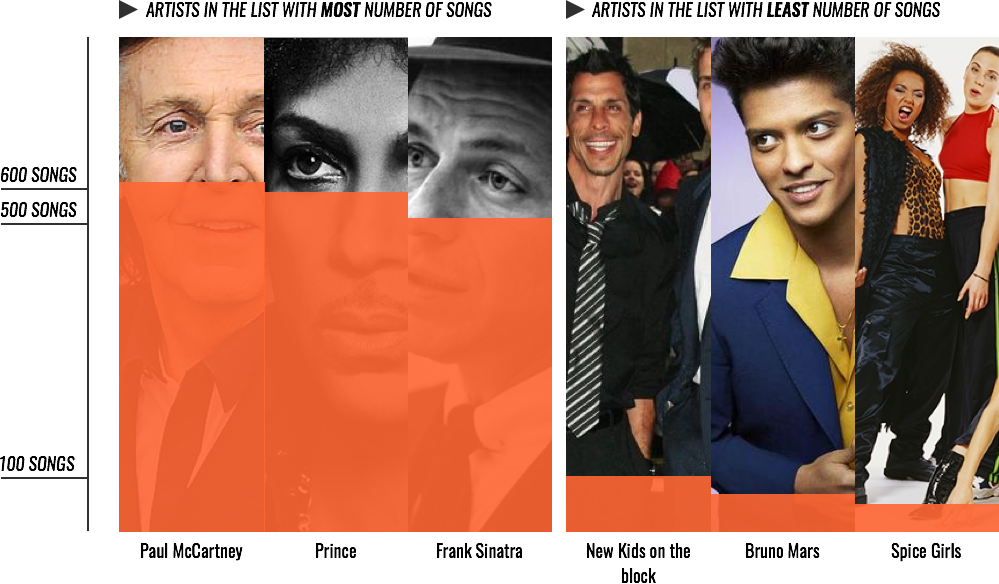
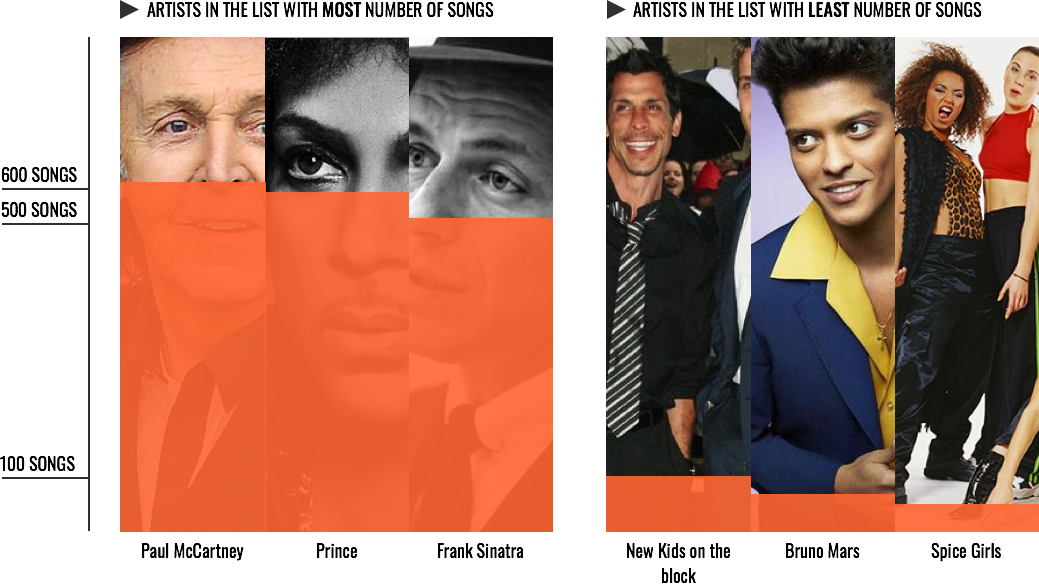
Added more content to the article

diff --git a/index.html b/index.html
@@ -47,7 +47,17 @@
 
 	<section class="article">
 		The aim is to compare the vocabulary and the lyrical density of these musicians. Some of them have released a lot more songs than others because of the sheer longevity of their career and how prolific they are.
+		<div id="topBottomArtists"></div>
 	</section>
+	<section class="article">
+		To prevent the vocabulary size from being skewed purely by the number of songs released, the vocabularies are compared across the 100 densest songs (by total words) that they have released till date. Only 6 of these musicians have released less than 100 songs so it is a good threshold. Also, 100 songs comprises 8 to 10 albums of music which would span at least 5 to 10 years of work which should truthfully mimic the overall vocabulary and lyrical style of the musician.  
+
+	Some definitions:
+	Vocabulary: The number of unique words (across any language) used by a musician in their 100 (or less) densest songs. [this should be highlighted in some way]
+	Lyrical density: The total number of words (across any language) used by a musician in their 100 (or less) densest songs. [highlight]
+	Learning rate: On average, the number of words after which a new word is used by the musician. This is the ratio of Lyrical density/Vocabulary. If it is low it means new words are learnt faster.
+	</section>
+
 
 
 	<!-- Begin Vocabulary Plot from here  -->
@@ -63,6 +73,17 @@
 		</div>
 	</section>
 	<!-- End Vocabulary Plot here -->
+
+	<section class="article">
+		<h1>Mr. OBVIOUS</h1>
+		<img src="img/mrobvious.png" height="364" width="712" alt="Musicians" class = "expImages">
+		There are 4 rappers in the list and they obviously are at the top of the vocabulary chart. Amongst them Eminem leads Jay-z, 2Pac, Kanye West and Black Eyed Peas by a big margin. One reason would be that he tends to use more words in his songs than the others. Eminem also has the overall highest words per song ratio of 1018.5
+	</section>
+	<section class="article">
+		<h1>THE FREEWHEELIN'</h1>
+		<img src="img/freewheeling.png" height="160" width="226" alt="Freewheelin'" class = "expImages">
+		Given how articulate and descriptive his songs are, it is no wonder Bob Dylan ranks so highly. He also ranks at the top (#11) of learning rate (a brand new word is used by him after every 9th word).
+	</section>
 </div> <!-- End of container div -->
 
 <script id = "tooltipTemplate" type = "mxm/template">

diff --git a/css/styles.css b/css/styles.css
@@ -155,9 +155,9 @@ input#locateArtist {
   display: inline-block;
   width: 80px;
   height: 80px;
-  border: 2px solid #000;
   background-color: #D8D8D8;
-  cursor: pointer; }
+  cursor: pointer;
+  border-radius: 2px; }
 
 .expanded {
   height: auto !important; }
@@ -242,17 +242,29 @@ body {
   margin: 0 auto;
   padding: 30px 20px 30px 20px;
   font-family: "Helvetica Neue", "Lato";
-  line-height: 1.5em;
+  line-height: 1.6em;
   font-size: 1.1em; }
   .article a {
     color: #FD4C38;
     text-decoration: none; }
+  .article h1 {
+    font-family: Oswald-DemiBold, "Oswald";
+    font-weight: bolder;
+    font-size: 36px;
+    color: #000000;
+    line-height: 49px;
+    width: 100%;
+    text-align: center; }
 
 #topBottomArtists {
-  width: 960px;
+  width: 1100px;
   height: 600px;
-  margin: 30px 0px 10px -120px;
+  margin: 30px 0px -40px -120px;
   background-image: url(.././img/topBottomArtists.png);
   background-repeat: no-repeat; }
+
+.expImages {
+  display: block;
+  margin: 30px auto; }
 
 /*# sourceMappingURL=styles.css.map */

diff --git a/sass/styles.sass b/sass/styles.sass
@@ -65,18 +65,30 @@ body
 	margin : 0 auto
 	padding: 30px 20px 30px 20px
 	font-family : 'Helvetica Neue','Lato'
-	line-height : 1.5em
+	line-height : 1.6em
 	font-size : 1.1em
 	& a
 		color : $color_main
 		text-decoration : none
+	h1
+		font-family: Oswald-DemiBold,'Oswald'
+		font-weight: bolder
+		font-size: 36px
+		color: #000000
+		line-height: 49px
+		width : 100%
+		text-align : center
 
 #topBottomArtists
-	width : 960px
+	width : 1100px
 	height : 600px
-	margin : 30px 0px 10px -120px
+	margin : 30px 0px -40px -120px
 	background-image : url(.././img/topBottomArtists.png)
 	background-repeat : no-repeat
+
+.expImages
+	display : block
+	margin : 30px auto
 
 
 

diff --git a/js/main.js b/js/main.js
@@ -84,6 +84,7 @@
 
     // Set up the scroll listener on the window to maintain the position of the button
     // Not the best solution but will work for now ...
+    // TODO : fix this 
     $window.on('scroll', function() {
         var scrollPos = $window.scrollTop();
         if (scrollPos > expandButton.getUpperScrollLimit() && scrollPos < expandButton.getLowerScrollLimit()) {

diff --git a/sass/_all_artist_section_style.sass b/sass/_all_artist_section_style.sass
@@ -37,9 +37,10 @@ $color_button_border : #FEA3A1
 	display : inline-block
 	width : 80px 
 	height : 80px
-	border : 2px solid #000
+	// border : 2px solid #000
 	background-color : #D8D8D8
 	cursor : pointer
+	border-radius : 2px
 
 .expanded
 	height : auto !important
